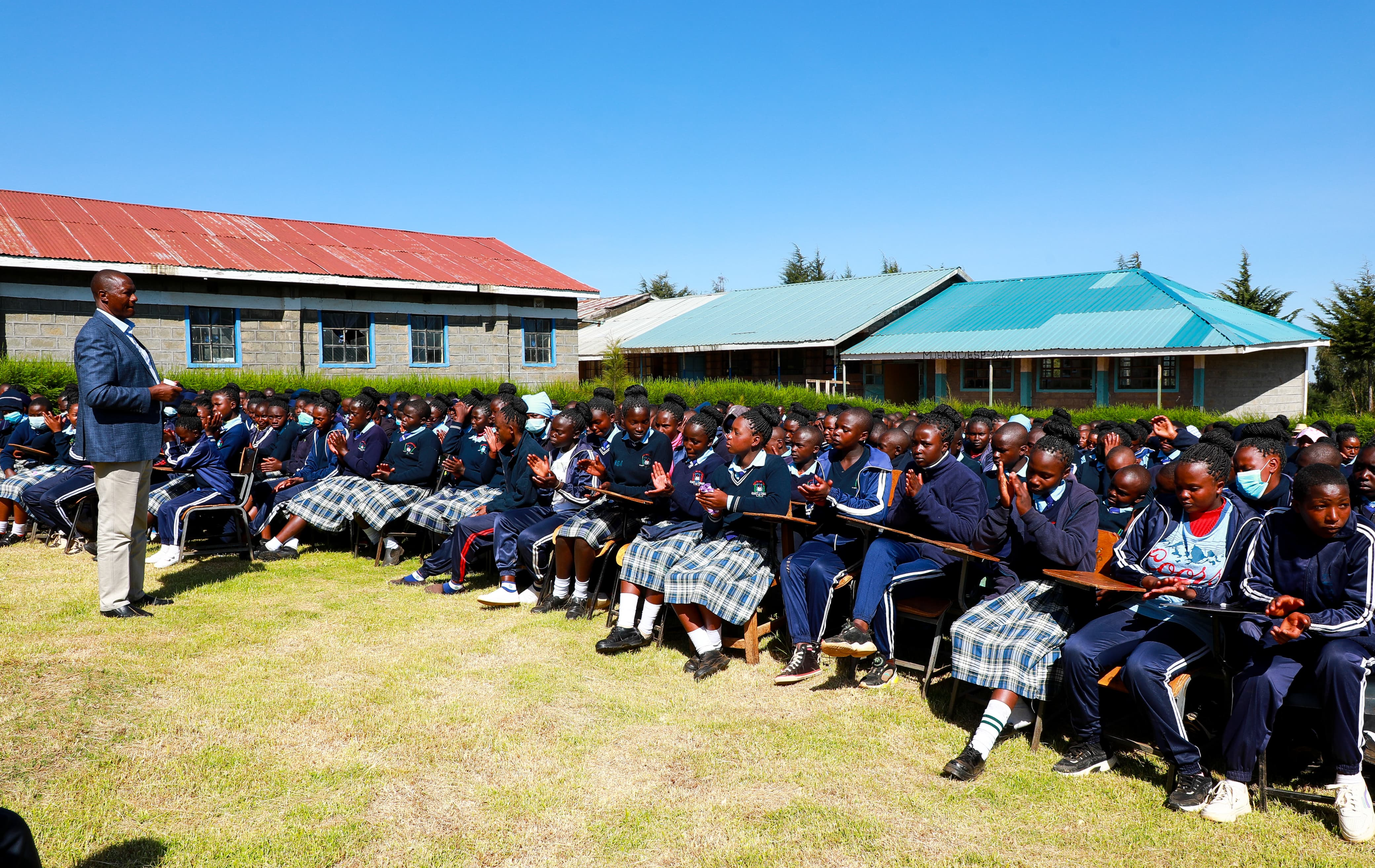
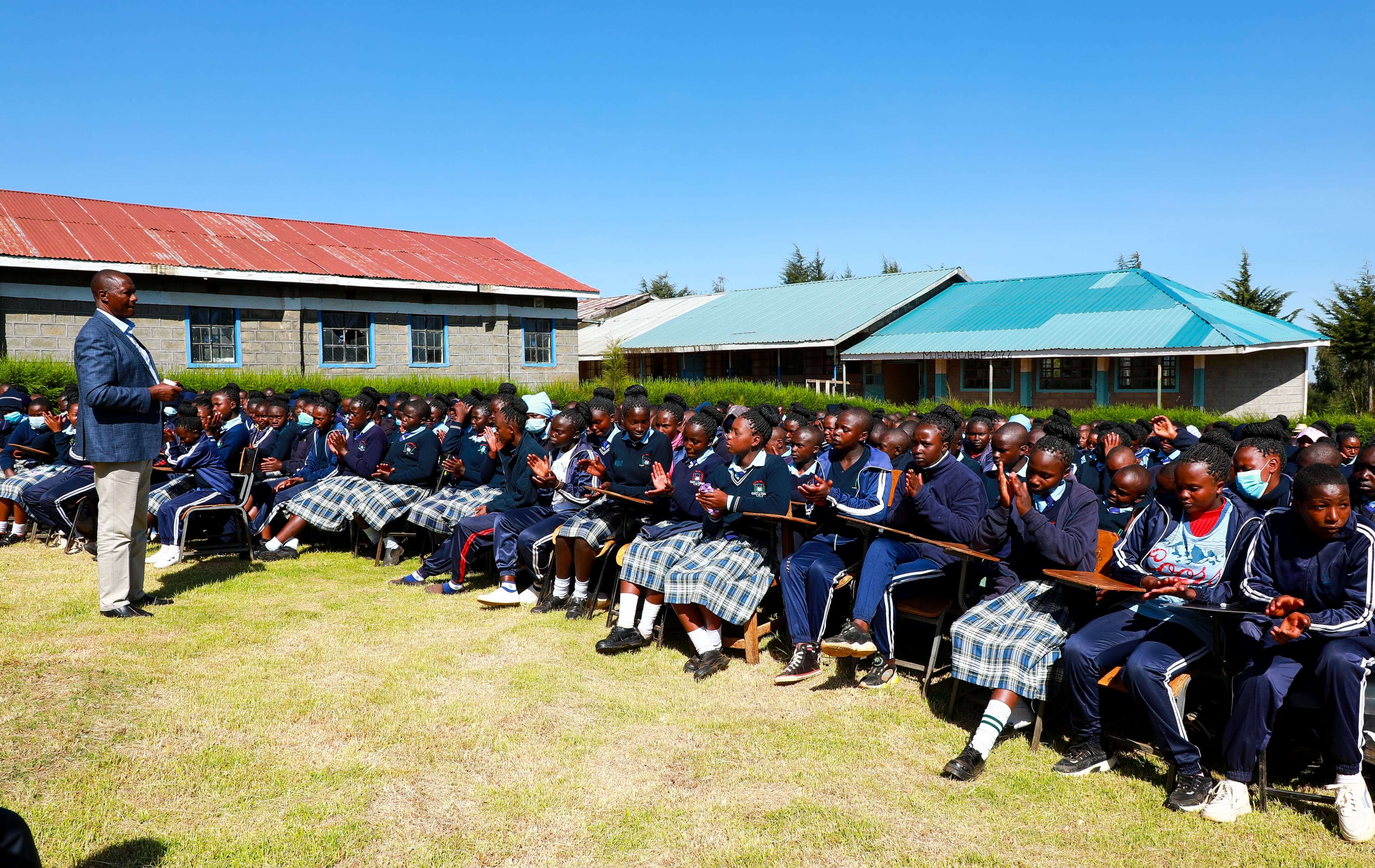
Added more image files

diff --git a/ngano.js b/ngano.js
@@ -50,9 +50,9 @@ function updateClock() {
   const now = new Date();
   const hours = now.getHours().toString().padStart(2, "0");
   const minutes = now.getMinutes().toString().padStart(2, "0");
-    now.getSeconds().toString().padStart(2, "0");
-    const weekday = getWeekDay(now);
-    const month = getMonthOfTheYear(now);
+  now.getSeconds().toString().padStart(2, "0");
+  const weekday = getWeekDay(now);
+  const month = getMonthOfTheYear(now);
   const date = now.getDate();
 
   document.getElementById(
@@ -103,7 +103,7 @@ const dotsBox = document.querySelector(".hero-dots");
 
 const images = [
   {
-    image: "images/main-view_1920x1440.jpg",
+    image: "images/classes-1.jpg",
     text: "Education is the great equalizer of our time. It gives hope to the hopeless and creates chances for those without... - Kofi Annan",
   },
   {
